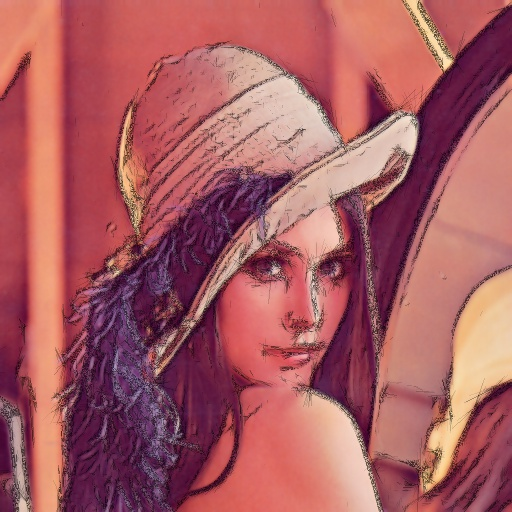
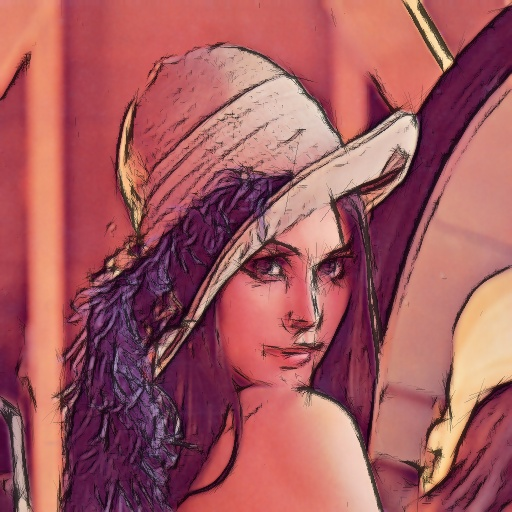
fix transparence artefact

diff --git a/scripts/naive.py b/scripts/naive.py
@@ -8,7 +8,7 @@ def strokes(x,y,cpt,result) :
     if sobel[x,y]>epsilon:
         uv = [L/2 *sobely[x,y]/sobel[x,y], L/2 *-sobelx[x,y]/sobel[x,y]]
         cv.line(tmp, (y - int(uv[0]), x - int(uv[1])), (y + int(uv[0]), x + int(uv[1])), 10, 1)
-        result-=tmp
+        result[:,:] = cv.subtract(result[:,:], tmp[:,:])
         cpt+=1
     return cpt,result
 
